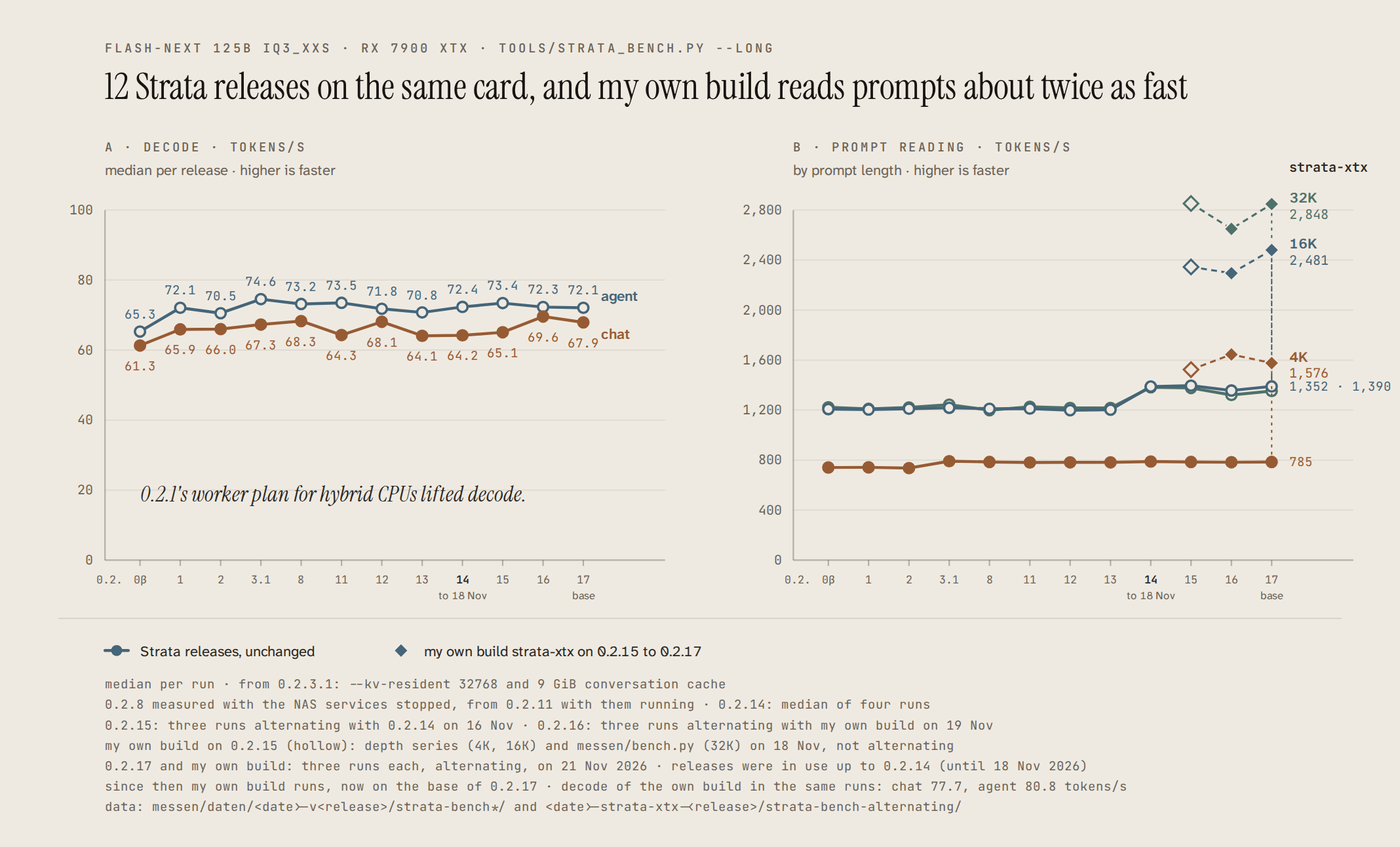
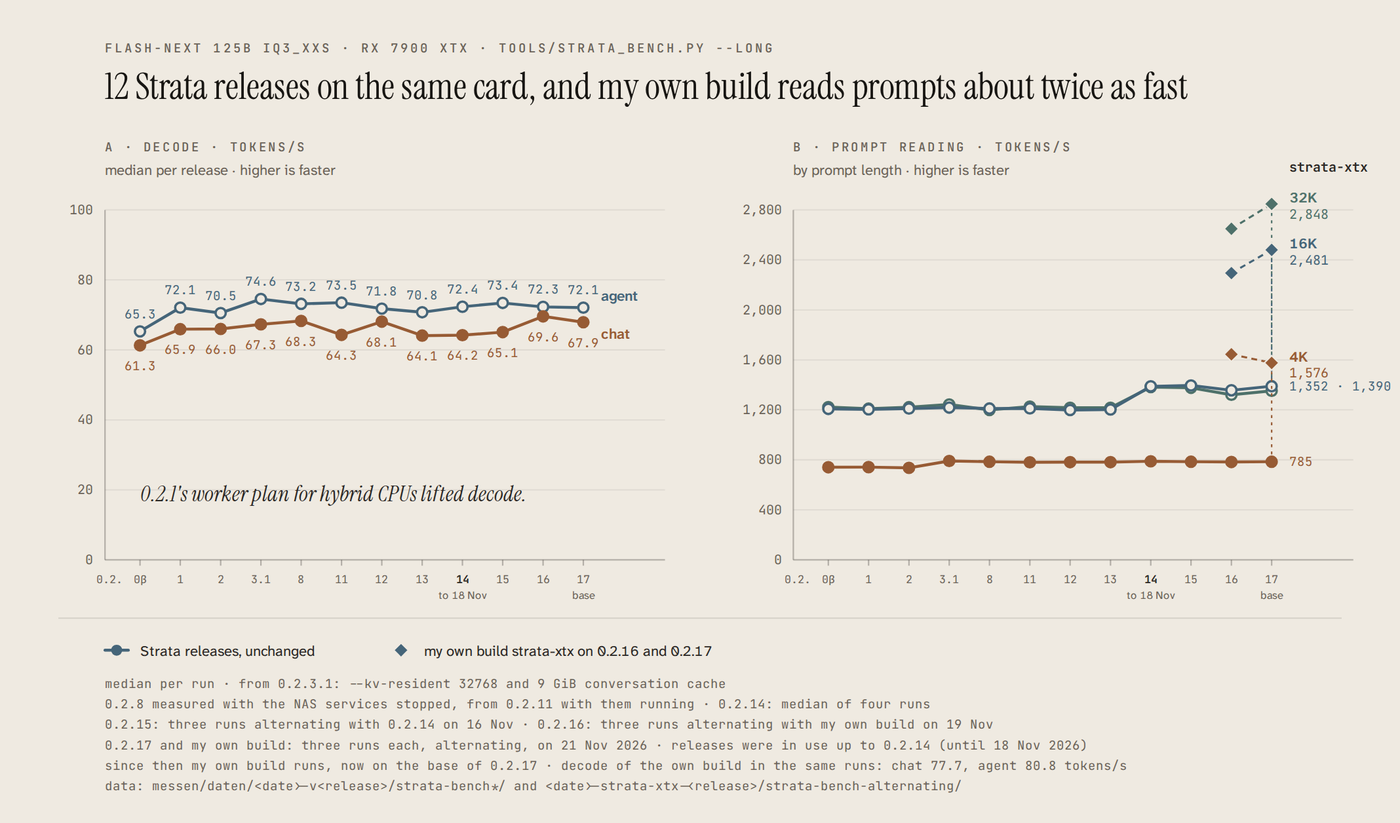
Release chart: my own build on 0.2.16 and 0.2.17 only, both measured alternating with the release

diff --git a/bilder/html/versionen-en.html b/bilder/html/versionen-en.html
@@ -16,10 +16,10 @@
 </head>
 <body>
   <div class="frame"><div class="scroll">
-    <svg viewBox="0 0 960 580" xmlns="http://www.w3.org/2000/svg" role="img" aria-labelledby="versionen-en-title versionen-en-desc">
+    <svg viewBox="0 0 960 564" xmlns="http://www.w3.org/2000/svg" role="img" aria-labelledby="versionen-en-title versionen-en-desc">
       <title id="versionen-en-title">12 Strata releases on the same card, and my own build reads </title>
       <desc id="versionen-en-desc">Chat and agent decode speed and prompt reading speed at 4K, 16K and 32K for Strata releases 0.2.0-beta to 0.2.17 on one RX 7900 XTX; decode stays within its scatter, prompt reading at 16K and 32K rises with 0.2.14 and holds since. My own build strata-xtx on 0.2.17 reads 1,576, 2,481 and 2,848 tokens per second at 4K, 16K and 32K.</desc>
-      <rect width="960" height="580" fill="#efeae1"/>
+      <rect width="960" height="564" fill="#efeae1"/>
       <text x="72.0" y="36.0" fill="#6a6258" font-size="8.5" font-family="'JetBrains Mono', Consolas, monospace" font-weight="500" letter-spacing="0.16em">FLASH-NEXT 125B IQ3_XXS · RX 7900 XTX · TOOLS/STRATA_BENCH.PY --LONG</text>
       <text x="72.0" y="68.0" fill="#171512" font-size="25" font-family="'Instrument Serif', Georgia, serif">12 Strata releases on the same card, and my own build reads prompts about twice as fast</text>
       <text x="72.0" y="104.0" fill="#6a6258" font-size="8.5" font-family="'JetBrains Mono', Consolas, monospace" font-weight="500" letter-spacing="0.14em">A · DECODE · TOKENS/S</text>
@@ -176,8 +176,7 @@
       <circle cx="844.4" cy="270.8" r="3.5" fill="#efeae1" stroke="#4e716a" stroke-width="1.6"/>
       <circle cx="872.0" cy="268.1" r="3.5" fill="#efeae1" stroke="#4e716a" stroke-width="1.6"/>
       <line x1="872.0" y1="263.1" x2="872.0" y2="145.9" stroke="#4e716a" stroke-width="1" stroke-dasharray="2,3"/>
-      <polyline points="816.7,139.5 844.4,156.9 872.0,139.9" fill="none" stroke="#4e716a" stroke-width="1.4" stroke-dasharray="4,3"/>
-      <path d="M816.7,134.5 l5,5 l-5,5 l-5,-5 z" fill="#efeae1" stroke="#4e716a" stroke-width="1.4"/>
+      <polyline points="844.4,156.9 872.0,139.9" fill="none" stroke="#4e716a" stroke-width="1.4" stroke-dasharray="4,3"/>
       <path d="M844.4,151.9 l5,5 l-5,5 l-5,-5 z" fill="#4e716a" stroke="#efeae1" stroke-width="1"/>
       <path d="M872.0,134.9 l5,5 l-5,5 l-5,-5 z" fill="#4e716a" stroke="#efeae1" stroke-width="1"/>
       <polyline points="568.0,280.5 595.6,280.8 623.3,280.2 650.9,279.6 678.5,280.2 706.2,280.1 733.8,281.2 761.5,280.9 789.1,265.0 816.7,264.4 844.4,267.7 872.0,264.9" fill="none" stroke="#456579" stroke-width="2" stroke-linejoin="round" stroke-linecap="round"/>
@@ -194,8 +193,7 @@
       <circle cx="844.4" cy="267.7" r="3.5" fill="#efeae1" stroke="#456579" stroke-width="1.6"/>
       <circle cx="872.0" cy="264.9" r="3.5" fill="#efeae1" stroke="#456579" stroke-width="1.6"/>
       <line x1="872.0" y1="259.9" x2="872.0" y2="177.4" stroke="#456579" stroke-width="1" stroke-dasharray="2,3"/>
-      <polyline points="816.7,183.0 844.4,187.3 872.0,171.4" fill="none" stroke="#456579" stroke-width="1.4" stroke-dasharray="4,3"/>
-      <path d="M816.7,178.0 l5,5 l-5,5 l-5,-5 z" fill="#efeae1" stroke="#456579" stroke-width="1.4"/>
+      <polyline points="844.4,187.3 872.0,171.4" fill="none" stroke="#456579" stroke-width="1.4" stroke-dasharray="4,3"/>
       <path d="M844.4,182.3 l5,5 l-5,5 l-5,-5 z" fill="#456579" stroke="#efeae1" stroke-width="1"/>
       <path d="M872.0,166.4 l5,5 l-5,5 l-5,-5 z" fill="#456579" stroke="#efeae1" stroke-width="1"/>
       <polyline points="568.0,320.5 595.6,320.4 623.3,320.9 650.9,316.2 678.5,316.7 706.2,317.1 733.8,317.0 761.5,317.0 789.1,316.4 816.7,316.7 844.4,316.9 872.0,316.7" fill="none" stroke="#975b34" stroke-width="2" stroke-linejoin="round" stroke-linecap="round"/>
@@ -212,8 +210,7 @@
       <circle cx="844.4" cy="316.9" r="3.5" fill="#975b34" stroke="#975b34" stroke-width="1.6"/>
       <circle cx="872.0" cy="316.7" r="3.5" fill="#975b34" stroke="#975b34" stroke-width="1.6"/>
       <line x1="872.0" y1="311.7" x2="872.0" y2="254.9" stroke="#975b34" stroke-width="1" stroke-dasharray="2,3"/>
-      <polyline points="816.7,253.4 844.4,243.0 872.0,248.9" fill="none" stroke="#975b34" stroke-width="1.4" stroke-dasharray="4,3"/>
-      <path d="M816.7,248.4 l5,5 l-5,5 l-5,-5 z" fill="#efeae1" stroke="#975b34" stroke-width="1.4"/>
+      <polyline points="844.4,243.0 872.0,248.9" fill="none" stroke="#975b34" stroke-width="1.4" stroke-dasharray="4,3"/>
       <path d="M844.4,238.0 l5,5 l-5,5 l-5,-5 z" fill="#975b34" stroke="#efeae1" stroke-width="1"/>
       <path d="M872.0,243.9 l5,5 l-5,5 l-5,-5 z" fill="#975b34" stroke="#efeae1" stroke-width="1"/>
       <text x="884.0" y="138.9" fill="#4e716a" font-size="10" font-family="'Atkinson Hyperlegible Next', 'Segoe UI', sans-serif" font-weight="600">32K</text>
@@ -231,14 +228,13 @@
       <circle cx="80.0" cy="446.0" r="3" fill="#456579" stroke="#456579" stroke-width="1.6"/>
       <text x="96.0" y="450.0" fill="#2a2724" font-size="10" font-family="'Atkinson Hyperlegible Next', 'Segoe UI', sans-serif">Strata releases, unchanged</text>
       <path d="M275.0,441.0 l5,5 l-5,5 l-5,-5 z" fill="#456579" stroke="#efeae1" stroke-width="1"/>
-      <text x="291.0" y="450.0" fill="#2a2724" font-size="10" font-family="'Atkinson Hyperlegible Next', 'Segoe UI', sans-serif">my own build strata-xtx on 0.2.15 to 0.2.17</text>
+      <text x="291.0" y="450.0" fill="#2a2724" font-size="10" font-family="'Atkinson Hyperlegible Next', 'Segoe UI', sans-serif">my own build strata-xtx on 0.2.16 and 0.2.17</text>
       <text x="72.0" y="472.0" fill="#6a6258" font-size="8.5" font-family="'JetBrains Mono', Consolas, monospace">median per run · from 0.2.3.1: --kv-resident 32768 and 9 GiB conversation cache</text>
       <text x="72.0" y="486.0" fill="#6a6258" font-size="8.5" font-family="'JetBrains Mono', Consolas, monospace">0.2.8 measured with the NAS services stopped, from 0.2.11 with them running · 0.2.14: median of four runs</text>
       <text x="72.0" y="500.0" fill="#6a6258" font-size="8.5" font-family="'JetBrains Mono', Consolas, monospace">0.2.15: three runs alternating with 0.2.14 on 16 Nov · 0.2.16: three runs alternating with my own build on 19 Nov</text>
-      <text x="72.0" y="514.0" fill="#6a6258" font-size="8.5" font-family="'JetBrains Mono', Consolas, monospace">my own build on 0.2.15 (hollow): depth series (4K, 16K) and messen/bench.py (32K) on 18 Nov, not alternating</text>
-      <text x="72.0" y="528.0" fill="#6a6258" font-size="8.5" font-family="'JetBrains Mono', Consolas, monospace">0.2.17 and my own build: three runs each, alternating, on 21 Nov 2026 · releases were in use up to 0.2.14 (until 18 Nov 2026)</text>
-      <text x="72.0" y="542.0" fill="#6a6258" font-size="8.5" font-family="'JetBrains Mono', Consolas, monospace">since then my own build runs, now on the base of 0.2.17 · decode of the own build in the same runs: chat 77.7, agent 80.8 tokens/s</text>
-      <text x="72.0" y="556.0" fill="#6a6258" font-size="8.5" font-family="'JetBrains Mono', Consolas, monospace">data: messen/daten/&lt;date&gt;-v&lt;release&gt;/strata-bench*/ and &lt;date&gt;-strata-xtx-&lt;release&gt;/strata-bench-alternating/</text>
+      <text x="72.0" y="514.0" fill="#6a6258" font-size="8.5" font-family="'JetBrains Mono', Consolas, monospace">0.2.17 and my own build: three runs each, alternating, on 21 Nov 2026 · releases were in use up to 0.2.14 (until 18 Nov 2026)</text>
+      <text x="72.0" y="528.0" fill="#6a6258" font-size="8.5" font-family="'JetBrains Mono', Consolas, monospace">since then my own build runs, now on the base of 0.2.17 · decode of the own build in the same runs: chat 77.7, agent 80.8 tokens/s</text>
+      <text x="72.0" y="542.0" fill="#6a6258" font-size="8.5" font-family="'JetBrains Mono', Consolas, monospace">data: messen/daten/&lt;date&gt;-v&lt;release&gt;/strata-bench*/ and &lt;date&gt;-strata-xtx-&lt;release&gt;/strata-bench-alternating/</text>
     </svg>
   </div></div>
 </body>

diff --git a/bilder/html/versionen-de.html b/bilder/html/versionen-de.html
@@ -16,10 +16,10 @@
 </head>
 <body>
   <div class="frame"><div class="scroll">
-    <svg viewBox="0 0 960 564" xmlns="http://www.w3.org/2000/svg" role="img" aria-labelledby="versionen-de-title versionen-de-desc">
+    <svg viewBox="0 0 960 552" xmlns="http://www.w3.org/2000/svg" role="img" aria-labelledby="versionen-de-title versionen-de-desc">
       <title id="versionen-de-title">12 Strata-Versionen auf derselben Karte, und der Eigenbau li</title>
       <desc id="versionen-de-desc">Schreibtempo für Chat und Agent und Einlesetempo bei 4K, 16K und 32K für die Strata-Versionen 0.2.0-beta bis 0.2.17 auf einer RX 7900 XTX; das Schreibtempo bleibt in seiner Streuung, das Einlesen bei 16K und 32K steigt mit 0.2.14 und hält seitdem. Der Eigenbau strata-xtx auf 0.2.17 liest bei 4K, 16K und 32K 1.576, 2.481 und 2.848 Token je Sekunde.</desc>
-      <rect width="960" height="564" fill="#efeae1"/>
+      <rect width="960" height="552" fill="#efeae1"/>
       <text x="72.0" y="36.0" fill="#6a6258" font-size="8.5" font-family="'JetBrains Mono', Consolas, monospace" font-weight="500" letter-spacing="0.16em">FLASH-NEXT 125B IQ3_XXS · RX 7900 XTX · TOOLS/STRATA_BENCH.PY --LONG</text>
       <text x="72.0" y="68.0" fill="#171512" font-size="25" font-family="'Instrument Serif', Georgia, serif">12 Strata-Versionen auf derselben Karte, und der Eigenbau liest Prompts etwa doppelt so schnell</text>
       <text x="72.0" y="104.0" fill="#6a6258" font-size="8.5" font-family="'JetBrains Mono', Consolas, monospace" font-weight="500" letter-spacing="0.14em">A · SCHREIBEN · TOKEN/S</text>
@@ -176,8 +176,7 @@
       <circle cx="844.4" cy="270.8" r="3.5" fill="#efeae1" stroke="#4e716a" stroke-width="1.6"/>
       <circle cx="872.0" cy="268.1" r="3.5" fill="#efeae1" stroke="#4e716a" stroke-width="1.6"/>
       <line x1="872.0" y1="263.1" x2="872.0" y2="145.9" stroke="#4e716a" stroke-width="1" stroke-dasharray="2,3"/>
-      <polyline points="816.7,139.5 844.4,156.9 872.0,139.9" fill="none" stroke="#4e716a" stroke-width="1.4" stroke-dasharray="4,3"/>
-      <path d="M816.7,134.5 l5,5 l-5,5 l-5,-5 z" fill="#efeae1" stroke="#4e716a" stroke-width="1.4"/>
+      <polyline points="844.4,156.9 872.0,139.9" fill="none" stroke="#4e716a" stroke-width="1.4" stroke-dasharray="4,3"/>
       <path d="M844.4,151.9 l5,5 l-5,5 l-5,-5 z" fill="#4e716a" stroke="#efeae1" stroke-width="1"/>
       <path d="M872.0,134.9 l5,5 l-5,5 l-5,-5 z" fill="#4e716a" stroke="#efeae1" stroke-width="1"/>
       <polyline points="568.0,280.5 595.6,280.8 623.3,280.2 650.9,279.6 678.5,280.2 706.2,280.1 733.8,281.2 761.5,280.9 789.1,265.0 816.7,264.4 844.4,267.7 872.0,264.9" fill="none" stroke="#456579" stroke-width="2" stroke-linejoin="round" stroke-linecap="round"/>
@@ -194,8 +193,7 @@
       <circle cx="844.4" cy="267.7" r="3.5" fill="#efeae1" stroke="#456579" stroke-width="1.6"/>
       <circle cx="872.0" cy="264.9" r="3.5" fill="#efeae1" stroke="#456579" stroke-width="1.6"/>
       <line x1="872.0" y1="259.9" x2="872.0" y2="177.4" stroke="#456579" stroke-width="1" stroke-dasharray="2,3"/>
-      <polyline points="816.7,183.0 844.4,187.3 872.0,171.4" fill="none" stroke="#456579" stroke-width="1.4" stroke-dasharray="4,3"/>
-      <path d="M816.7,178.0 l5,5 l-5,5 l-5,-5 z" fill="#efeae1" stroke="#456579" stroke-width="1.4"/>
+      <polyline points="844.4,187.3 872.0,171.4" fill="none" stroke="#456579" stroke-width="1.4" stroke-dasharray="4,3"/>
       <path d="M844.4,182.3 l5,5 l-5,5 l-5,-5 z" fill="#456579" stroke="#efeae1" stroke-width="1"/>
       <path d="M872.0,166.4 l5,5 l-5,5 l-5,-5 z" fill="#456579" stroke="#efeae1" stroke-width="1"/>
       <polyline points="568.0,320.5 595.6,320.4 623.3,320.9 650.9,316.2 678.5,316.7 706.2,317.1 733.8,317.0 761.5,317.0 789.1,316.4 816.7,316.7 844.4,316.9 872.0,316.7" fill="none" stroke="#975b34" stroke-width="2" stroke-linejoin="round" stroke-linecap="round"/>
@@ -212,8 +210,7 @@
       <circle cx="844.4" cy="316.9" r="3.5" fill="#975b34" stroke="#975b34" stroke-width="1.6"/>
       <circle cx="872.0" cy="316.7" r="3.5" fill="#975b34" stroke="#975b34" stroke-width="1.6"/>
       <line x1="872.0" y1="311.7" x2="872.0" y2="254.9" stroke="#975b34" stroke-width="1" stroke-dasharray="2,3"/>
-      <polyline points="816.7,253.4 844.4,243.0 872.0,248.9" fill="none" stroke="#975b34" stroke-width="1.4" stroke-dasharray="4,3"/>
-      <path d="M816.7,248.4 l5,5 l-5,5 l-5,-5 z" fill="#efeae1" stroke="#975b34" stroke-width="1.4"/>
+      <polyline points="844.4,243.0 872.0,248.9" fill="none" stroke="#975b34" stroke-width="1.4" stroke-dasharray="4,3"/>
       <path d="M844.4,238.0 l5,5 l-5,5 l-5,-5 z" fill="#975b34" stroke="#efeae1" stroke-width="1"/>
       <path d="M872.0,243.9 l5,5 l-5,5 l-5,-5 z" fill="#975b34" stroke="#efeae1" stroke-width="1"/>
       <text x="884.0" y="138.9" fill="#4e716a" font-size="10" font-family="'Atkinson Hyperlegible Next', 'Segoe UI', sans-serif" font-weight="600">32K</text>
@@ -231,13 +228,12 @@
       <circle cx="80.0" cy="446.0" r="3" fill="#456579" stroke="#456579" stroke-width="1.6"/>
       <text x="96.0" y="450.0" fill="#2a2724" font-size="10" font-family="'Atkinson Hyperlegible Next', 'Segoe UI', sans-serif">Strata-Releases, unverändert</text>
       <path d="M286.0,441.0 l5,5 l-5,5 l-5,-5 z" fill="#456579" stroke="#efeae1" stroke-width="1"/>
-      <text x="302.0" y="450.0" fill="#2a2724" font-size="10" font-family="'Atkinson Hyperlegible Next', 'Segoe UI', sans-serif">Eigenbau strata-xtx auf 0.2.15 bis 0.2.17</text>
+      <text x="302.0" y="450.0" fill="#2a2724" font-size="10" font-family="'Atkinson Hyperlegible Next', 'Segoe UI', sans-serif">Eigenbau strata-xtx auf 0.2.16 und 0.2.17</text>
       <text x="72.0" y="472.0" fill="#6a6258" font-size="8.5" font-family="'JetBrains Mono', Consolas, monospace">Median je Lauf · ab 0.2.3.1: --kv-resident 32768 und 9 GiB Gesprächs-Cache · 0.2.8 mit gestoppten NAS-Diensten gemessen, ab 0.2.11 mit laufenden</text>
       <text x="72.0" y="486.0" fill="#6a6258" font-size="8.5" font-family="'JetBrains Mono', Consolas, monospace">0.2.14: Median aus vier Läufen · 0.2.15: drei Läufe im Wechsel mit 0.2.14 am 16.11. · 0.2.16: drei Läufe im Wechsel mit dem Eigenbau am 19.11.</text>
-      <text x="72.0" y="500.0" fill="#6a6258" font-size="8.5" font-family="'JetBrains Mono', Consolas, monospace">Eigenbau auf 0.2.15 (hohl): Tiefenreihe (4K, 16K) und messen/bench.py (32K) vom 18.11., nicht im Wechsel</text>
-      <text x="72.0" y="514.0" fill="#6a6258" font-size="8.5" font-family="'JetBrains Mono', Consolas, monospace">0.2.17 und der Eigenbau: je drei Läufe im Wechsel am 21.11.2026 · im Betrieb liefen Releases bis 0.2.14 (bis 18.11.2026)</text>
-      <text x="72.0" y="528.0" fill="#6a6258" font-size="8.5" font-family="'JetBrains Mono', Consolas, monospace">seitdem läuft der Eigenbau, jetzt auf der Basis von 0.2.17 · Schreibtempo des Eigenbaus in denselben Läufen: Chat 77,7, Agent 80,8 Token/s</text>
-      <text x="72.0" y="542.0" fill="#6a6258" font-size="8.5" font-family="'JetBrains Mono', Consolas, monospace">Daten: messen/daten/&lt;Datum&gt;-v&lt;Version&gt;/strata-bench*/ und &lt;Datum&gt;-strata-xtx-&lt;Version&gt;/strata-bench-alternating/</text>
+      <text x="72.0" y="500.0" fill="#6a6258" font-size="8.5" font-family="'JetBrains Mono', Consolas, monospace">0.2.17 und der Eigenbau: je drei Läufe im Wechsel am 21.11.2026 · im Betrieb liefen Releases bis 0.2.14 (bis 18.11.2026)</text>
+      <text x="72.0" y="514.0" fill="#6a6258" font-size="8.5" font-family="'JetBrains Mono', Consolas, monospace">seitdem läuft der Eigenbau, jetzt auf der Basis von 0.2.17 · Schreibtempo des Eigenbaus in denselben Läufen: Chat 77,7, Agent 80,8 Token/s</text>
+      <text x="72.0" y="528.0" fill="#6a6258" font-size="8.5" font-family="'JetBrains Mono', Consolas, monospace">Daten: messen/daten/&lt;Datum&gt;-v&lt;Version&gt;/strata-bench*/ und &lt;Datum&gt;-strata-xtx-&lt;Version&gt;/strata-bench-alternating/</text>
     </svg>
   </div></div>
 </body>

diff --git a/messen/diagramme.py b/messen/diagramme.py
@@ -373,10 +373,9 @@ VERSIONEN = [("0.2.0β", "2026-10-19/strata-0.2.0-beta/strata-bench-results.json
              ("0.2.17", [f"{XTX_DATEN}/strata-bench-alternating/round{n}-release-0.2.17.json" for n in (1, 2, 3)])]   # dasselbe am 21.11.
 XTX_BENCH = [f"{XTX_DATEN}/strata-bench-alternating/round{n}-strata-xtx-{XTX_VER}.json" for n in (1, 2, 3)]            # der Eigenbau auf derselben Basis
 IN_BETRIEB, GEPRUEFT = "0.2.14", XTX_VER   # letztes Release im Betrieb · Basis des Eigenbaus
-# Der Eigenbau auf jeder Basis, auf der er lief (Franks Wunsch 21.11.2026). 0.2.16 und 0.2.17: strata_bench im Wechsel.
-# 0.2.15 wurde nicht mit strata_bench gemessen: 4K und 16K aus der Tiefenreihe, 32K aus messen/bench.py, beide 18.11.2026; im Diagramm hohl.
-XTX_VERLAUF = [("0.2.15", "tiefe+bench", "2026-11-18-strata-xtx"),
-               ("0.2.16", [f"{XTX_VOR}/strata-bench-alternating/round{n}-strata-xtx-0.2.16.json" for n in (1, 2, 3)], None),
+# Der Eigenbau auf jeder Basis, die mit strata_bench im Wechsel gemessen ist (21.11.2026). 0.2.15 bewusst nicht: dort gibt es nur Tiefenreihe
+# und bench.py, eine andere Messart (Frank 21.11.2026: wieder herausgenommen). xtx_basis() kann sie bei Bedarf noch lesen ("tiefe+bench").
+XTX_VERLAUF = [("0.2.16", [f"{XTX_VOR}/strata-bench-alternating/round{n}-strata-xtx-0.2.16.json" for n in (1, 2, 3)], None),
                (XTX_VER, XTX_BENCH, None)]
 
 
@@ -438,9 +437,9 @@ def versionen(d, sp):
             s.text(X(n - 1) + 12, p.Y(werte[-1]["16K"]) + 3, f"{z(werte[-1]['32K'], sp)} · {z(werte[-1]['16K'], sp)}", 8.5, STAHL, "mono")
             s.text(X(n - 1) + 12, p.Y(werte[-1]["4K"]) + 3, z(werte[-1]["4K"], sp), 8.5, ACC, "mono")
     s.text(L + 24, 344, "0.2.1's worker plan for hybrid CPUs lifted decode." if en else "Der Worker-Plan von 0.2.1 hob das Schreibtempo.", 15, INK, "serif", kursiv=True)
-    h = fuss(s, 424, (("linie", STAHL, "Strata releases, unchanged" if en else "Strata-Releases, unverändert"), ("raute", STAHL, f"my own build strata-xtx on 0.2.15 to {XTX_VER}" if en else f"Eigenbau strata-xtx auf 0.2.15 bis {XTX_VER}")),
-             f"median per run · from 0.2.3.1: --kv-resident 32768 and 9 GiB conversation cache · 0.2.8 measured with the NAS services stopped, from 0.2.11 with them running · 0.2.14: median of four runs · 0.2.15: three runs alternating with 0.2.14 on 16 Nov · 0.2.16: three runs alternating with my own build on 19 Nov · my own build on 0.2.15 (hollow): depth series (4K, 16K) and messen/bench.py (32K) on 18 Nov, not alternating · {XTX_VER} and my own build: three runs each, alternating, on {XTX_TAG['en']} · releases were in use up to 0.2.14 (until 18 Nov 2026) · since then my own build runs, now on the base of {XTX_VER} · decode of the own build in the same runs: chat {z(xtx['chat'], sp)}, agent {z(xtx['agent'], sp)} tokens/s · data: messen/daten/<date>-v<release>/strata-bench*/ and <date>-strata-xtx-<release>/strata-bench-alternating/" if en else
-             f"Median je Lauf · ab 0.2.3.1: --kv-resident 32768 und 9 GiB Gesprächs-Cache · 0.2.8 mit gestoppten NAS-Diensten gemessen, ab 0.2.11 mit laufenden · 0.2.14: Median aus vier Läufen · 0.2.15: drei Läufe im Wechsel mit 0.2.14 am 16.11. · 0.2.16: drei Läufe im Wechsel mit dem Eigenbau am 19.11. · Eigenbau auf 0.2.15 (hohl): Tiefenreihe (4K, 16K) und messen/bench.py (32K) vom 18.11., nicht im Wechsel · {XTX_VER} und der Eigenbau: je drei Läufe im Wechsel am {XTX_TAG['de']} · im Betrieb liefen Releases bis 0.2.14 (bis 18.11.2026) · seitdem läuft der Eigenbau, jetzt auf der Basis von {XTX_VER} · Schreibtempo des Eigenbaus in denselben Läufen: Chat {z(xtx['chat'], sp)}, Agent {z(xtx['agent'], sp)} Token/s · Daten: messen/daten/<Datum>-v<Version>/strata-bench*/ und <Datum>-strata-xtx-<Version>/strata-bench-alternating/")
+    h = fuss(s, 424, (("linie", STAHL, "Strata releases, unchanged" if en else "Strata-Releases, unverändert"), ("raute", STAHL, f"my own build strata-xtx on 0.2.16 and {XTX_VER}" if en else f"Eigenbau strata-xtx auf 0.2.16 und {XTX_VER}")),
+             f"median per run · from 0.2.3.1: --kv-resident 32768 and 9 GiB conversation cache · 0.2.8 measured with the NAS services stopped, from 0.2.11 with them running · 0.2.14: median of four runs · 0.2.15: three runs alternating with 0.2.14 on 16 Nov · 0.2.16: three runs alternating with my own build on 19 Nov · {XTX_VER} and my own build: three runs each, alternating, on {XTX_TAG['en']} · releases were in use up to 0.2.14 (until 18 Nov 2026) · since then my own build runs, now on the base of {XTX_VER} · decode of the own build in the same runs: chat {z(xtx['chat'], sp)}, agent {z(xtx['agent'], sp)} tokens/s · data: messen/daten/<date>-v<release>/strata-bench*/ and <date>-strata-xtx-<release>/strata-bench-alternating/" if en else
+             f"Median je Lauf · ab 0.2.3.1: --kv-resident 32768 und 9 GiB Gesprächs-Cache · 0.2.8 mit gestoppten NAS-Diensten gemessen, ab 0.2.11 mit laufenden · 0.2.14: Median aus vier Läufen · 0.2.15: drei Läufe im Wechsel mit 0.2.14 am 16.11. · 0.2.16: drei Läufe im Wechsel mit dem Eigenbau am 19.11. · {XTX_VER} und der Eigenbau: je drei Läufe im Wechsel am {XTX_TAG['de']} · im Betrieb liefen Releases bis 0.2.14 (bis 18.11.2026) · seitdem läuft der Eigenbau, jetzt auf der Basis von {XTX_VER} · Schreibtempo des Eigenbaus in denselben Läufen: Chat {z(xtx['chat'], sp)}, Agent {z(xtx['agent'], sp)} Token/s · Daten: messen/daten/<Datum>-v<Version>/strata-bench*/ und <Datum>-strata-xtx-<Version>/strata-bench-alternating/")
     return "versionen", titel, (f"Chat and agent decode speed and prompt reading speed at 4K, 16K and 32K for Strata releases 0.2.0-beta to {VERSIONEN[-1][0]} on one RX 7900 XTX; decode stays within its scatter, prompt reading at 16K and 32K rises with 0.2.14 and holds since. My own build strata-xtx on {XTX_VER} reads {z(xtx['4K'], sp)}, {z(xtx['16K'], sp)} and {z(xtx['32K'], sp)} tokens per second at 4K, 16K and 32K." if en else
                                 f"Schreibtempo für Chat und Agent und Einlesetempo bei 4K, 16K und 32K für die Strata-Versionen 0.2.0-beta bis {VERSIONEN[-1][0]} auf einer RX 7900 XTX; das Schreibtempo bleibt in seiner Streuung, das Einlesen bei 16K und 32K steigt mit 0.2.14 und hält seitdem. Der Eigenbau strata-xtx auf {XTX_VER} liest bei 4K, 16K und 32K {z(xtx['4K'], sp)}, {z(xtx['16K'], sp)} und {z(xtx['32K'], sp)} Token je Sekunde."), s, h
 

diff --git a/web/bau.py b/web/bau.py
@@ -419,8 +419,8 @@ def seite(sp):
 
     kapitel(9, "versionen", T("Hält es über Versionen?", "Does it hold across releases?"))
     A(bild(D.versionen, sp))
-    P(T(f"Jede Strata-Version seit 0.2.0-beta ist hier gegen ihre Vorgängerin gemessen, mit identischer Konfiguration. Bis 0.2.13 wurde nichts langsamer. <b>0.2.14</b> liest Prompts von 16K und 32K rund 15 % schneller und schreibt gleich schnell. <b>0.2.15</b> bringt nur ein neues Steuerprogramm. <b>0.2.16</b>, geprüft am 19.11.2026, hat einen eigenen Engine-Code und eine neue Ordnerstruktur; auf dieser Karte ändert es am Tempo nichts: Im direkten Wechsel mit 0.2.15 schreibt es 61 gegen 60 Token je Sekunde. <b>0.2.17</b>, geprüft am {XD}, ebenso: im Wechsel mit 0.2.16 62 gegen 62 Token je Sekunde, und es liest gleich schnell. Bis zum 18.11.2026 lief hier jeweils das Release. Seitdem läuft mein Eigenbau, seit dem {XD} auf der Basis von {XV}; die Rauten im Diagramm zeigen ihn auf jeder Basis, auf 0.2.16 und 0.2.17 in denselben Läufen im Wechsel mit dem Release gemessen, auf 0.2.15 (hohl) aus anderen Messungen.",
-        f"Every Strata release since 0.2.0-beta was measured here against the one before it, with the identical configuration. Up to 0.2.13 nothing got slower. <b>0.2.14</b> reads prompts of 16K and 32K about 15 % faster and writes equally fast. <b>0.2.15</b> only brings a new control program. <b>0.2.16</b>, tested on 19 Nov 2026, has its own engine code and a new folder layout; on this card it changes nothing about speed: alternating directly with 0.2.15 it writes 61 against 60 tokens per second. <b>0.2.17</b>, tested on {XE}, likewise: alternating with 0.2.16 it writes 62 against 62 tokens per second, and it reads equally fast. Until 18 Nov 2026 the release itself ran here. Since then my own build runs, since {XE} on the base of {XV}; the diamonds in the chart show it on each base, on 0.2.16 and 0.2.17 measured in the same runs alternating with the release, on 0.2.15 (hollow) from other measurements.")
+    P(T(f"Jede Strata-Version seit 0.2.0-beta ist hier gegen ihre Vorgängerin gemessen, mit identischer Konfiguration. Bis 0.2.13 wurde nichts langsamer. <b>0.2.14</b> liest Prompts von 16K und 32K rund 15 % schneller und schreibt gleich schnell. <b>0.2.15</b> bringt nur ein neues Steuerprogramm. <b>0.2.16</b>, geprüft am 19.11.2026, hat einen eigenen Engine-Code und eine neue Ordnerstruktur; auf dieser Karte ändert es am Tempo nichts: Im direkten Wechsel mit 0.2.15 schreibt es 61 gegen 60 Token je Sekunde. <b>0.2.17</b>, geprüft am {XD}, ebenso: im Wechsel mit 0.2.16 62 gegen 62 Token je Sekunde, und es liest gleich schnell. Bis zum 18.11.2026 lief hier jeweils das Release. Seitdem läuft mein Eigenbau, seit dem {XD} auf der Basis von {XV}; die Rauten im Diagramm zeigen ihn auf 0.2.16 und 0.2.17, jeweils in denselben Läufen im Wechsel mit dem Release gemessen.",
+        f"Every Strata release since 0.2.0-beta was measured here against the one before it, with the identical configuration. Up to 0.2.13 nothing got slower. <b>0.2.14</b> reads prompts of 16K and 32K about 15 % faster and writes equally fast. <b>0.2.15</b> only brings a new control program. <b>0.2.16</b>, tested on 19 Nov 2026, has its own engine code and a new folder layout; on this card it changes nothing about speed: alternating directly with 0.2.15 it writes 61 against 60 tokens per second. <b>0.2.17</b>, tested on {XE}, likewise: alternating with 0.2.16 it writes 62 against 62 tokens per second, and it reads equally fast. Until 18 Nov 2026 the release itself ran here. Since then my own build runs, since {XE} on the base of {XV}; the diamonds in the chart show it on 0.2.16 and 0.2.17, each measured in the same runs alternating with the release.")
       + f' <a href="{doc("releases")}">{T("Jede Version im Einzelnen", "Every release in detail")}</a>')
     zu()
 

diff --git a/README.de.md b/README.de.md
@@ -307,7 +307,7 @@ Stratas Engine bringt Umgebungsschalter für das Einlesen mit, die auf dieser Ka
 
 ## Strata-Versionen auf dieser Karte
 
-Jede Version seit 0.2.0-beta ist hier gegen ihre Vorgängerin gemessen, mit identischer Laufkonfiguration, nur Engine und Control getauscht. Seit dem 18.11.2026 läuft im Betrieb nicht mehr das Release, sondern der Eigenbau auf dessen Basis; im Diagramm stehen die Rauten über 0.2.15 bis 0.2.17 für ihn auf jeder Basis (über 0.2.15 hohl, aus anderen Messungen, nicht im Wechsel). Einzelheiten, Tabellen und Rohdaten zu jeder Version: [docs/releases.de.md](docs/releases.de.md).
+Jede Version seit 0.2.0-beta ist hier gegen ihre Vorgängerin gemessen, mit identischer Laufkonfiguration, nur Engine und Control getauscht. Seit dem 18.11.2026 läuft im Betrieb nicht mehr das Release, sondern der Eigenbau auf dessen Basis; im Diagramm stehen die Rauten über 0.2.16 und 0.2.17 für ihn auf beiden Basen, jeweils im Wechsel mit dem Release gemessen. Einzelheiten, Tabellen und Rohdaten zu jeder Version: [docs/releases.de.md](docs/releases.de.md).
 
 ![Strata-Versionen auf derselben Karte](bilder/versionen-de.png)
 

diff --git a/README.md b/README.md
@@ -306,7 +306,7 @@ Strata's engine ships environment switches for prompt reading that are off on th
 
 ## Strata releases on this card
 
-Every release since 0.2.0-beta was measured here against the one before it, with the identical run config and only engine and control swapped. Since 18 Nov 2026 production no longer runs the release but my own build on its base; in the chart the diamonds above 0.2.15 to 0.2.17 show it on each base (on 0.2.15, hollow, from other measurements, not alternating). Details, tables and raw data for each one: [docs/releases.md](docs/releases.md).
+Every release since 0.2.0-beta was measured here against the one before it, with the identical run config and only engine and control swapped. Since 18 Nov 2026 production no longer runs the release but my own build on its base; in the chart the diamonds above 0.2.16 and 0.2.17 show it on both bases, each measured alternating with the release. Details, tables and raw data for each one: [docs/releases.md](docs/releases.md).
 
 ![Strata releases on the same card](bilder/versionen-en.png)
 
